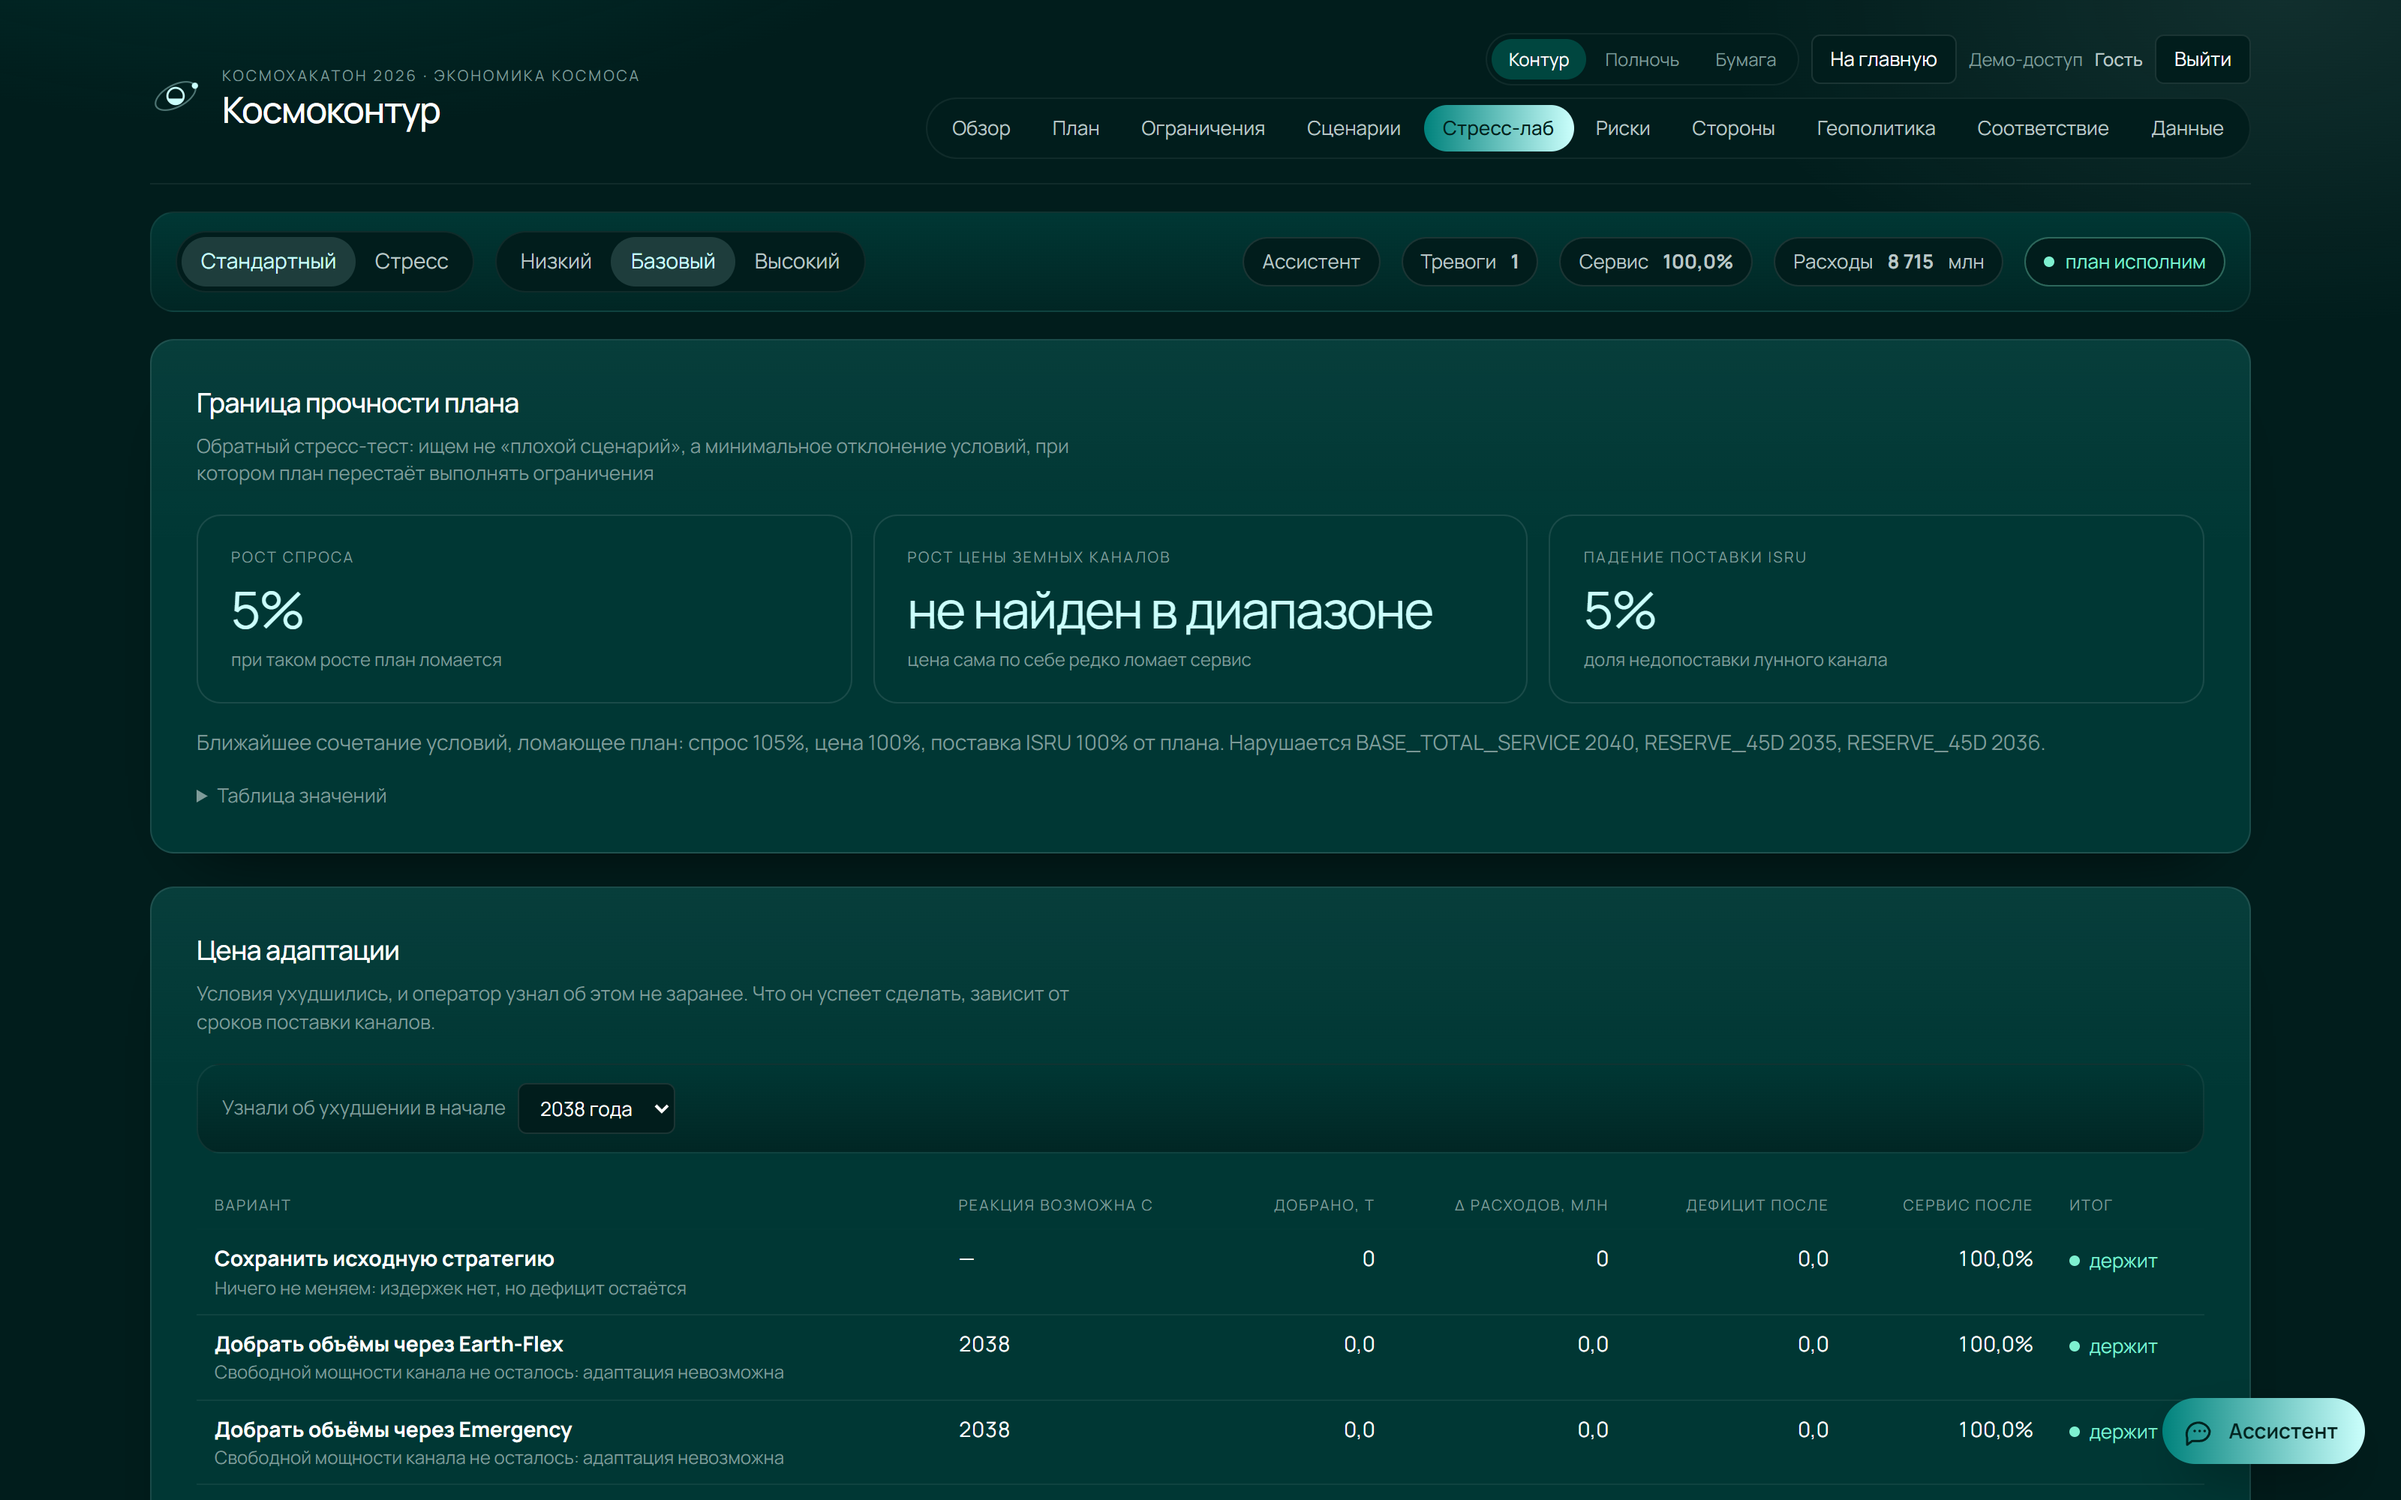
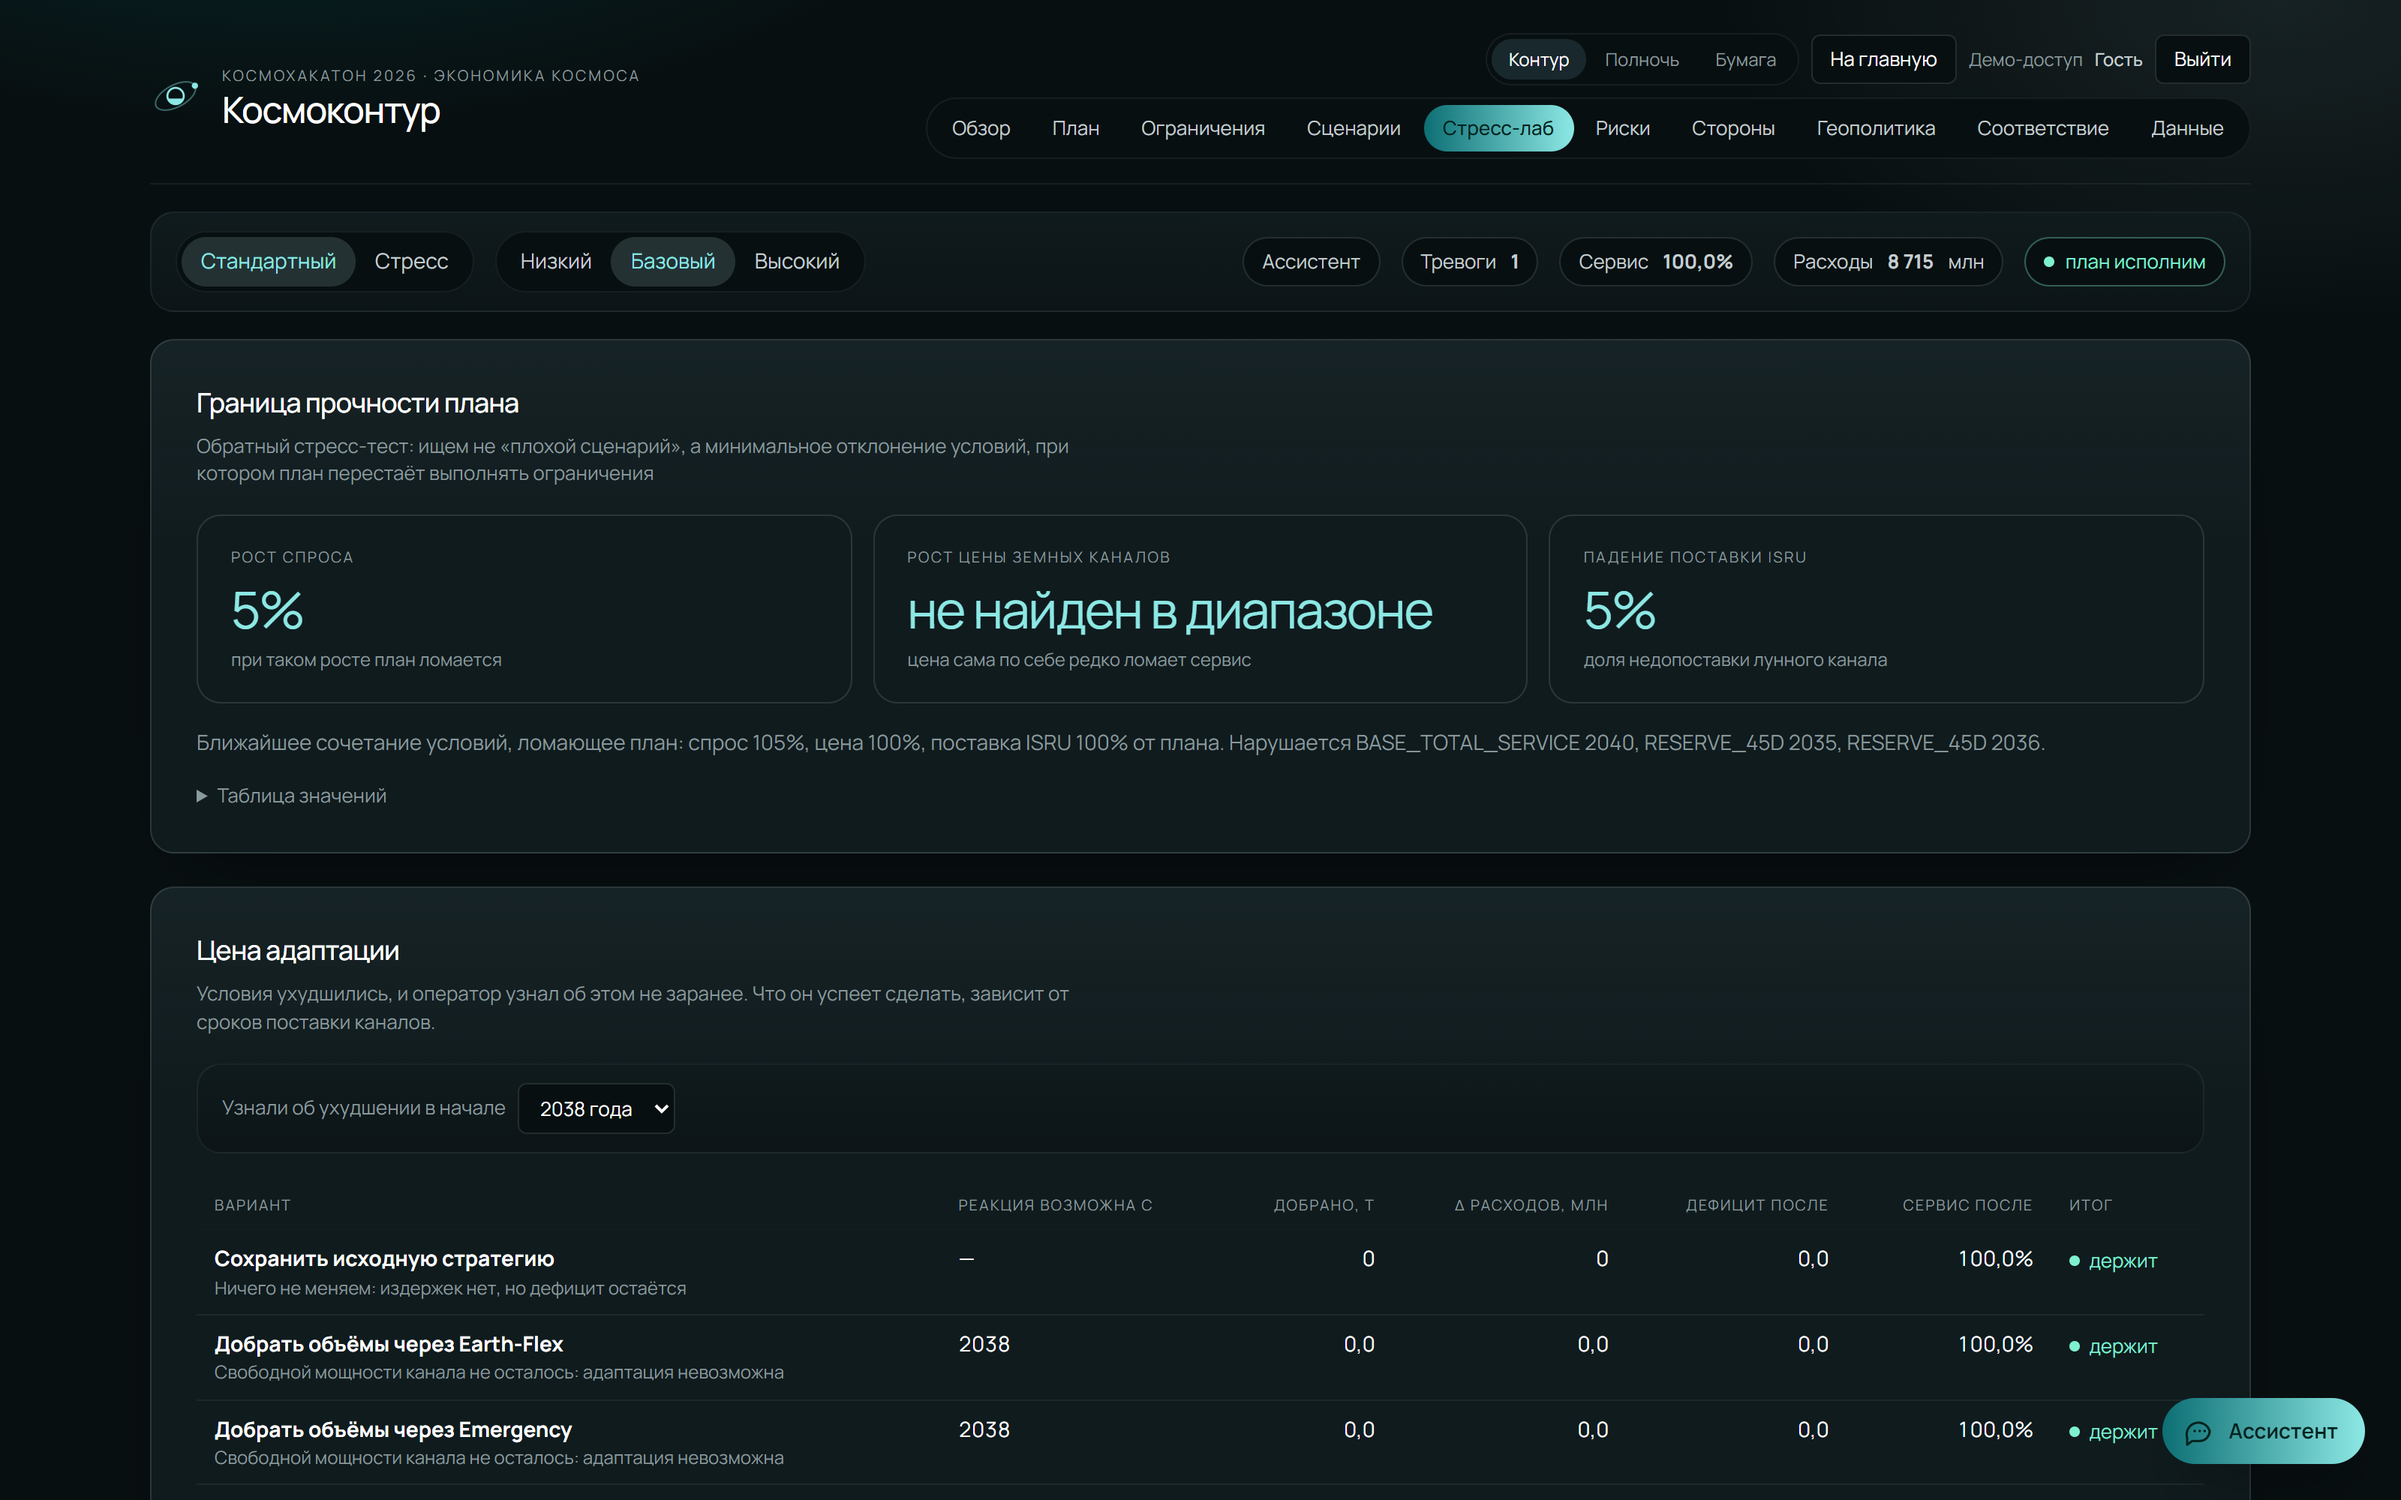
Палитра без болотного оттенка и уточнения с общей сессии
Поверхности темы «Контур» были полностью насыщенным зелёным (#003734,
S=100%): тёмный тон при такой насыщенности читается как болотный.
Насыщенность убрана из фонов и оставлена акценту, палитра графиков
выровнена с новой поверхностью.

Уточнения постановщика с первой общей сессии: переполнение узла — решение
команды (наше описано в README), время разгрузки и жизненный цикл
транспорта в кейс не входят, обязательный стресс показывается отдельным
прогоном, более дорогой пакет защищать можно при наличии обоснования.

diff --git a/src/ui/styles.css b/src/ui/styles.css
@@ -5,20 +5,22 @@
 :root {
   color-scheme: dark;
 
-  --abyss: #011d1c;
-  --deep: #012624;
-  --kelp: #003734;
-  --kelp-hi: #00463f;
-  --line: rgba(187, 199, 198, 0.14);
-  --line-soft: rgba(187, 199, 198, 0.08);
+  /* Фоны почти нейтральные, с лёгким холодным уходом. Насыщенность отдана
+     акценту: тёмная поверхность в полную насыщенность выглядит болотной. */
+  --abyss: #080f11;
+  --deep: #0c1417;
+  --kelp: #101b1e;
+  --kelp-hi: #18282c;
+  --line: rgba(196, 210, 213, 0.15);
+  --line-soft: rgba(196, 210, 213, 0.08);
 
   --ink: #ffffff;
-  --ink-2: #bbc7c6;
-  --ink-3: #7f9b99;
+  --ink-2: #c3ced0;
+  --ink-3: #8a9a9d;
 
-  --mint: #cbfffc;
-  --teal: #00827c;
-  --accent-grad: linear-gradient(90deg, #00827c 0%, #cbfffc 100%);
+  --mint: #8ce8e4;
+  --teal: #0f7a78;
+  --accent-grad: linear-gradient(90deg, #0d6f74 0%, #8ce8e4 100%);
   --aurora: linear-gradient(90deg, #cbfffc 0%, #edfffe 26%, #fffdfa 48%, #fad1ff 89%);
 
   --ok: #7ef0d0;
@@ -42,8 +44,8 @@ body {
   margin: 0;
   color: var(--ink);
   background:
-    radial-gradient(900px 500px at 12% -10%, rgba(0, 130, 124, 0.32), transparent 60%),
-    radial-gradient(700px 400px at 95% 0%, rgba(203, 255, 252, 0.08), transparent 55%),
+    radial-gradient(1000px 560px at 12% -12%, rgba(24, 108, 124, 0.20), transparent 62%),
+    radial-gradient(760px 420px at 96% -4%, rgba(140, 232, 228, 0.05), transparent 58%),
     var(--abyss);
   background-attachment: fixed;
 }

diff --git a/src/ui/theme.ts b/src/ui/theme.ts
@@ -13,14 +13,14 @@ export const THEMES: { id: ThemeId; label: string; note: string }[] = [
 
 const CHART_THEMES = {
   contour: {
-    surface: '#003734',
-    plane: '#012624',
+    surface: '#101b1e',
+    plane: '#0c1417',
     text: '#ffffff',
-    text2: '#bbc7c6',
-    muted: '#7f9b99',
-    grid: '#0b4a46',
-    axis: '#13615a',
-    mint: '#cbfffc',
+    text2: '#c3ced0',
+    muted: '#8a9a9d',
+    grid: '#1e3034',
+    axis: '#2b4247',
+    mint: '#8ce8e4',
     ok: '#7ef0d0',
     bad: '#ff9270',
     series: ['#3987e5', '#d95926', '#199e70', '#c98500', '#d55181'],

diff --git a/docs/ВОПРОСЫ_И_ОТВЕТЫ.md b/docs/ВОПРОСЫ_И_ОТВЕТЫ.md
@@ -71,6 +71,10 @@ max(заказ, доля × резерв) всегда равен заказу, 
 
 ## Про риски
 
+**Вы рекомендуете не самый дешёвый вариант. Почему?**
+Потому что дешевизна — не единственный критерий, и постановщик это подтвердил на общей сессии: защищать более дорогой пакет можно, если под него есть экономическое и финансовое обоснование. Наше обоснование — минимакс сожалений: рекомендованная стратегия исполнима во всех четырёх сценариях решения, а самая дешёвая в стандартных условиях ломается при других. Плата за это — 192 млн у.е. приведённых расходов, около 2% бюджета горизонта.
+→ **Сценарии**, блок робастности; `results/recommended_across_scenarios.csv`.
+
 **Что именно ломает ваш план?**
 Рост спроса на 5% или падение поставки ISRU на 5%. Рост цен земных каналов в диапазоне кейса план выдерживает. Это обратный стресс-тест: мы ищем минимальное отклонение, а не перебираем страшные истории.
 → **Стресс-лаб**, «Граница прочности».
